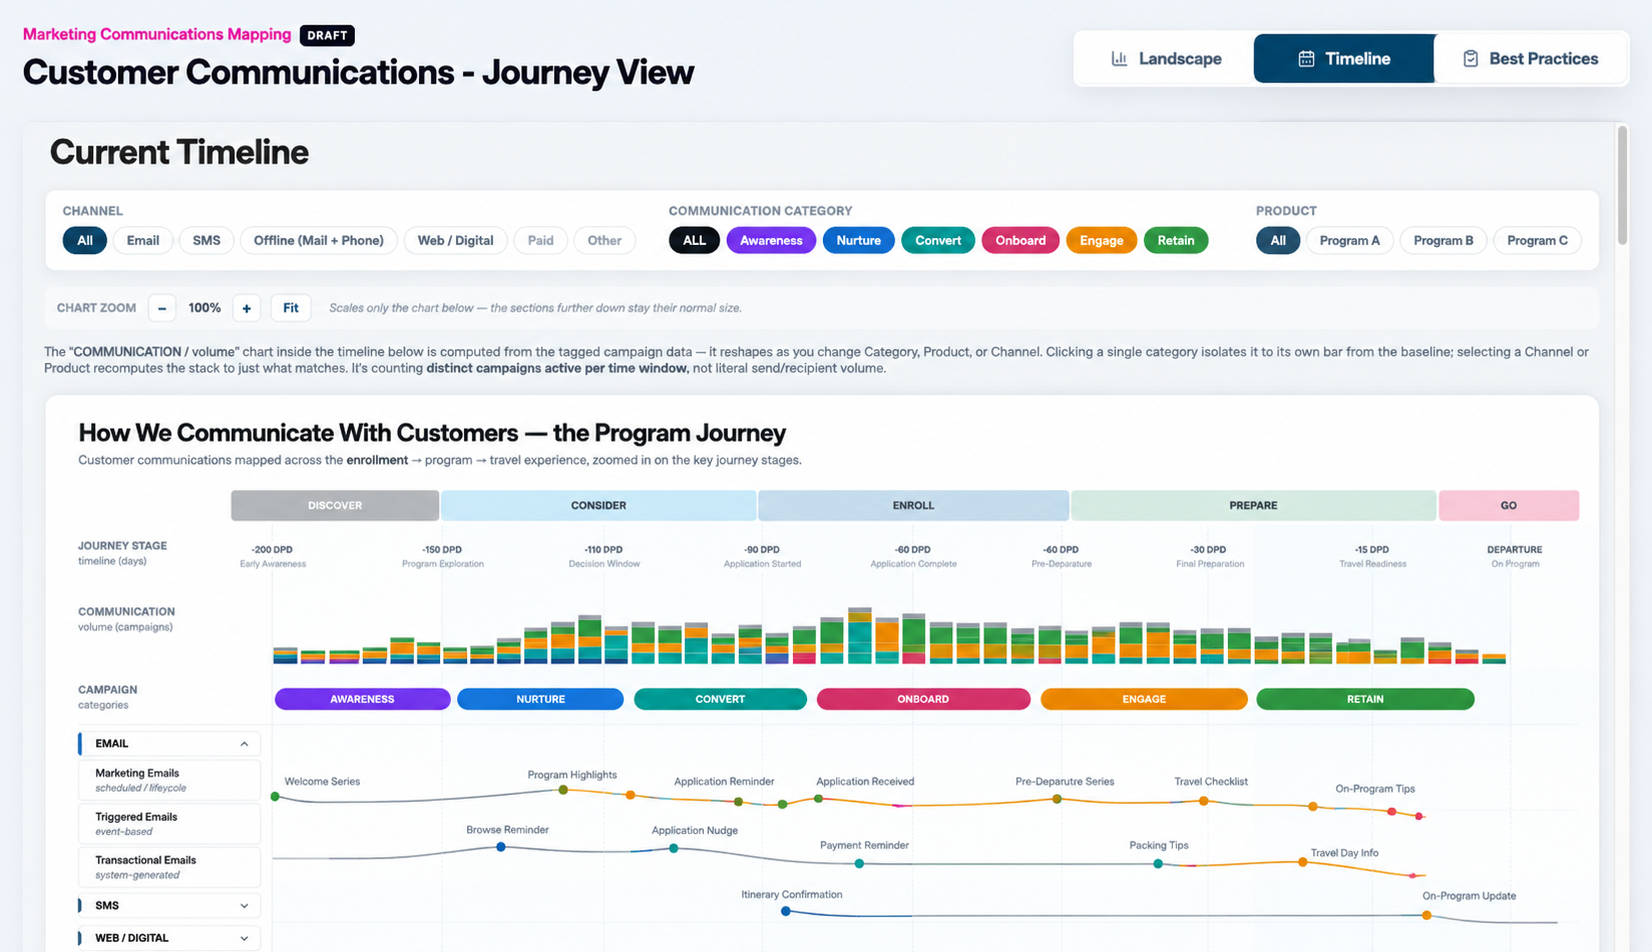
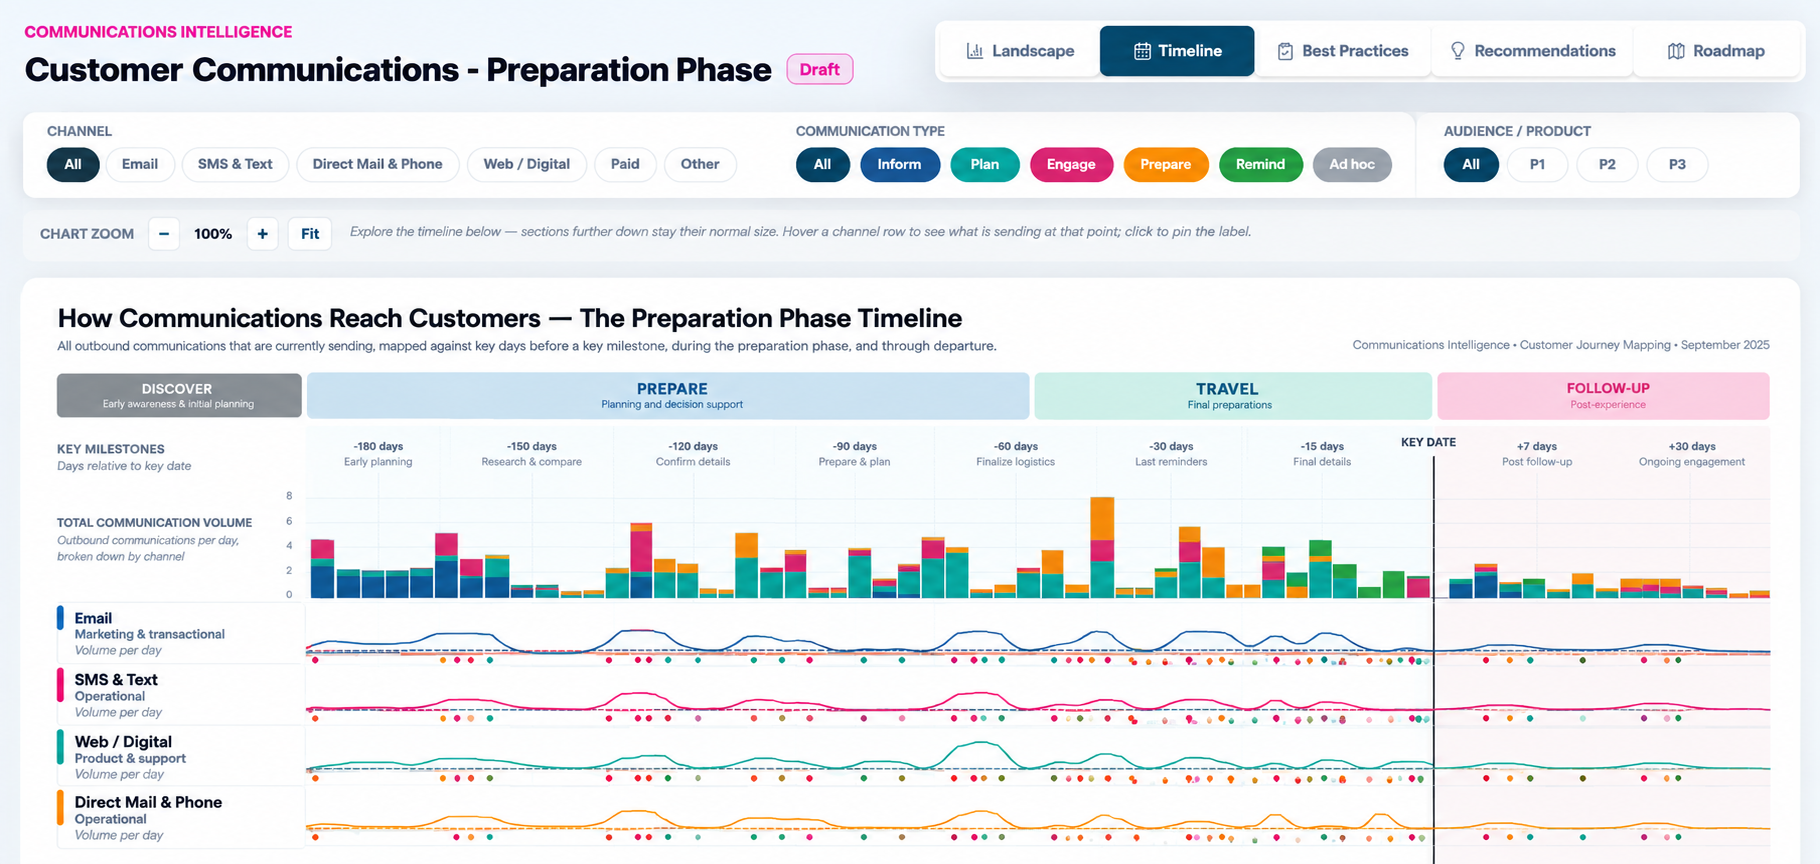
images and numbers on comms intel

diff --git a/app/work/communications-intelligence/page.tsx b/app/work/communications-intelligence/page.tsx
@@ -57,13 +57,13 @@ export default function Page() {
     >
       <AtAGlance
         stats={[
-          { value: "31", label: "Source documents synthesized" },
-          { value: "219+", label: "Recurring Marketing + triggered emails incorporated" },
-          { value: "6", label: "Sales stakeholders consulted in discovery" },
-          { value: "15+", label: "Communication channels and surfaces considered" },
+          { value: "35", label: "Source documents synthesized" },
+          { value: "250+", label: "Recurring emails incorporated" },
+          { value: "15", label: "Stakeholders consulted in discovery" },
+          { value: "19", label: "Communication channels and surfaces considered" },
           { value: "5", label: "Views, from landscape to implementation roadmap" },
         ]}
-        note="Scope of the inputs and analysis — not outcomes. 219+ is the known Marketing and triggered email inventory (52 ongoing + 167 recurring triggered), not a count of every communication across all channels."
+        note="Scope of the inputs and analysis — not outcomes. 250+ is the known recurring email inventory (ongoing Marketing and triggered emails), not a count of every communication across all channels."
       />
 
       <Section heading="The challenge">
@@ -95,11 +95,11 @@ export default function Page() {
         </p>
         <DefList
           items={[
-            { term: "Documents", detail: "31 source and reference documents synthesized" },
+            { term: "Documents", detail: "35 source and reference documents synthesized" },
             {
               term: "Email",
               detail:
-                "52 ongoing Marketing emails and 167 recurring triggered emails (219+ in all), plus Customer Support email",
+                "250+ recurring emails — ongoing Marketing and triggered — plus Customer Support email",
             },
             { term: "Messaging", detail: "Marketing SMS, Sales text messaging, and live chat" },
             {
@@ -110,14 +110,14 @@ export default function Page() {
             { term: "Phone & mail", detail: "Customer phone hotline, Sales phone, and direct mail" },
             {
               term: "People",
-              detail: "Discovery with 6 Sales stakeholders to understand their communications",
+              detail: "Discovery with 15 stakeholders to understand their communications",
             },
           ]}
         />
         <p className="text-muted">
           Other communications were investigated and removed once they were
-          determined not to be relevant. The 219+ figure covers the known
-          Marketing and triggered email inventory only — it isn&rsquo;t a count of
+          determined not to be relevant. The 250+ figure covers the known
+          recurring email inventory only — it isn&rsquo;t a count of
           every communication across the ecosystem.
         </p>
       </Section>
@@ -176,10 +176,10 @@ export default function Page() {
 
         <CaseStudyImage
           src="/Comms-timeline-preview.png"
-          alt="Sanitized screenshot of the communications intelligence workspace, showing the timeline view with channel, category, and product filters"
-          width={1652}
-          height={952}
-          caption="Sanitized Timeline view. Communications are mapped onto one journey by days before departure and can be filtered by channel, category, and product."
+          alt="Sanitized screenshot of the Timeline view, showing daily communication volume by channel across the preparation phase, with channel, communication type, and audience/product filters and tabs for Landscape, Best Practices, Recommendations, and Roadmap"
+          width={1820}
+          height={864}
+          caption="Sanitized Timeline view. Communications are mapped onto one journey by days relative to a key date, with daily volume by channel, filterable by channel, communication type, and audience/product."
           subcaption="Recreated with representative data. Proprietary company information and performance data have been removed."
         />
 

diff --git a/app/work/_components/case-study-image.tsx b/app/work/_components/case-study-image.tsx
@@ -23,25 +23,28 @@ export function CaseStudyImage({
   return (
     <>
       <div className="w-full">
-        <button
-          type="button"
-          onClick={() => setExpanded(true)}
-          className="glow-frame relative block w-full cursor-zoom-in overflow-hidden rounded-xl border border-[var(--border-solid)] bg-[var(--surface)] p-2 transition-colors hover:bg-[var(--surface-hover)] sm:p-3"
-          aria-label={`Expand image: ${alt}`}
-        >
-          <span className="data-badge absolute left-4 top-4 z-10 sm:left-5 sm:top-5">
+        <div className="relative">
+          <button
+            type="button"
+            onClick={() => setExpanded(true)}
+            className="glow-frame relative block w-full cursor-zoom-in overflow-hidden rounded-xl border border-[var(--border-solid)] bg-[var(--surface)] p-2 transition-colors hover:bg-[var(--surface-hover)] sm:p-3"
+            aria-label={`Expand image: ${alt}`}
+          >
+            <Image
+              src={src}
+              alt={alt}
+              width={width}
+              height={height}
+              className="w-full rounded-lg"
+              sizes="(min-width: 768px) 720px, 100vw"
+            />
+          </button>
+          {/* Straddles the frame's bottom edge so it never covers the screenshot. */}
+          <span className="data-badge pointer-events-none absolute bottom-0 right-4 z-10 translate-y-1/2">
             representative data
           </span>
-          <Image
-            src={src}
-            alt={alt}
-            width={width}
-            height={height}
-            className="w-full rounded-lg"
-            sizes="(min-width: 768px) 720px, 100vw"
-          />
-        </button>
-        <p className="mt-3 text-sm leading-relaxed text-foreground">
+        </div>
+        <p className="mt-5 text-sm leading-relaxed text-foreground">
           {caption}
         </p>
         <p className="mt-1 text-xs text-muted">{subcaption}</p>

diff --git a/app/work/sms-optimization/page.tsx b/app/work/sms-optimization/page.tsx
@@ -70,9 +70,9 @@ export default function Page() {
 
         <CaseStudyImage
           src="/SMS-optimizer-preview.png"
-          alt="Sanitized screenshot of the SMS optimization workspace, showing the message calculator and credit estimate"
-          width={790}
-          height={925}
+          alt="Sanitized screenshot of the SMS optimization workspace: a message calculator (send type, audience, recipients, trigger, message copy) beside a credit estimate with encoding, segment count, and copy recommendations"
+          width={1562}
+          height={1007}
           caption="Sanitized view of the SMS optimization workspace, combining message planning, credit estimation, SMS encoding and segmentation analysis, campaign management, and copy guidance."
           subcaption="Recreated with representative data. Proprietary company information, internal cost structures, and campaign data have been removed."
         />
